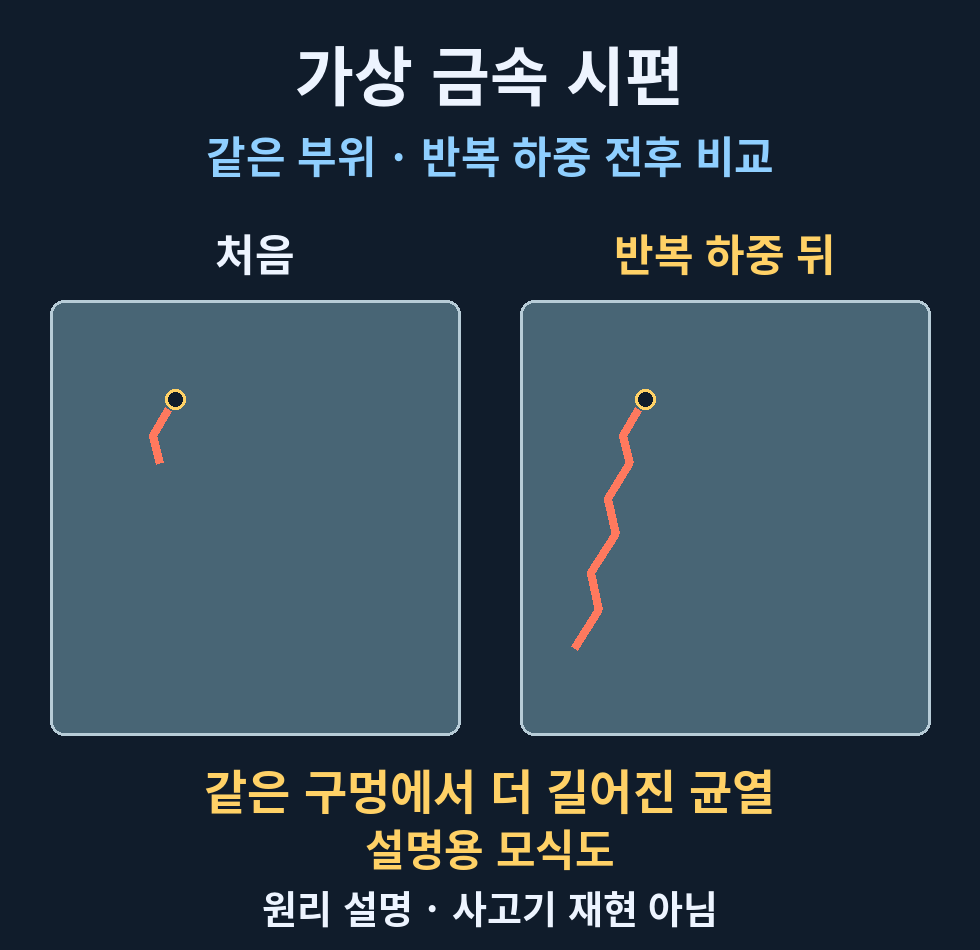
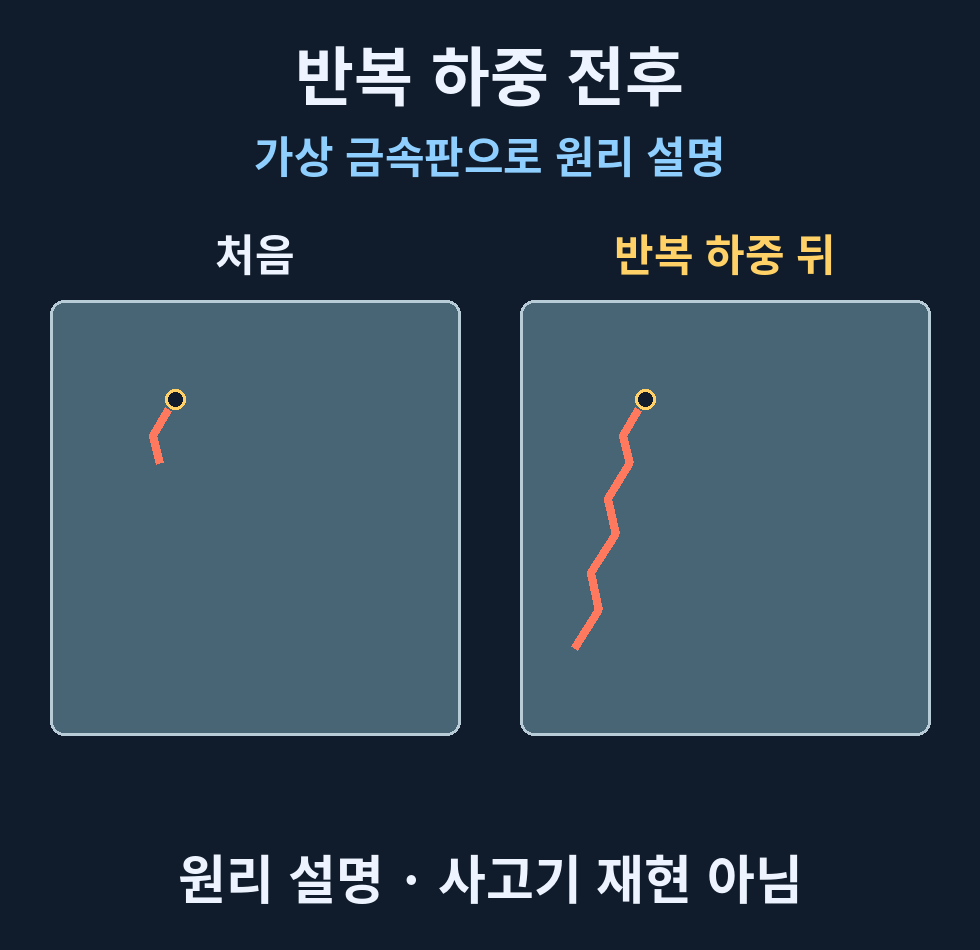
Clarify fatigue specimen transition and enlarge its qualification

Changed region(s): [[0.1837, 0.7937, 0.8265, 0.9768], [0.2143, 0.0305, 0.7959, 0.1832]]

diff --git a/tools/build_comet_fatigue_cards.py b/tools/build_comet_fatigue_cards.py
@@ -25,8 +25,7 @@ def text(d, x, y, value, size=52, color=WHITE):
     d.text((x, y), value, font=font, fill=color, anchor="mm")
 
 def footer(d):
-    text(d, 490, 847, "설명용 모식도", 43, GOLD)
-    text(d, 490, 906, "원리 설명 · 사고기 재현 아님", 38, WHITE)
+    text(d, 490, 876, "원리 설명 · 사고기 재현 아님", 52, WHITE)
 
 def specimen(d, stage, box=(140, 240, 840, 745)):
     x0,y0,x1,y1 = box
@@ -42,36 +41,30 @@ def specimen(d, stage, box=(140, 240, 840, 745)):
     if stage>=1:pts += [(149,232),(163,272),(121,317),(134,360),(93,405)]
     if stage>=2:pts += [(110,447),(77,505)]
     d.line([p(*a) for a in pts],fill=RED,width=max(3,int(15*sx)),joint="curve")
-    if stage>=2:
-        # Generic loss of continuity only; no physical stress or exact fracture prediction.
-        d.line([p(77,505),p(110,447),p(93,405)],fill=BG,width=max(4,int(22*sx)))
     return p
 
 def build(root):
     root=Path(root);root.mkdir(parents=True,exist_ok=True)
-    im,d=base("가상 금속 시편", "작은 균열에 반복 하중")
+    im,d=base("구멍 주변의 작은 균열", "가상 금속판으로 원리 설명")
     specimen(d,0)
     # Long opposing arrows show loading rather than imply air pressure through the opening.
     for x,dx in [(110,-55),(870,55)]:
         d.line((x,490,x+dx,490),fill=BLUE,width=8)
         d.polygon([(x+dx,490),(x+dx-(15 if dx>0 else -15),479),(x+dx-(15 if dx>0 else -15),501)],fill=BLUE)
-    text(d,490,788,"같은 부위에 반복 하중",52,GOLD)
     footer(d);im.save(root/"crack-small.png")
 
-    im,d=base("가상 금속 시편", "같은 부위 · 반복 하중 전후 비교")
+    im,d=base("반복 하중 전후", "가상 금속판으로 원리 설명")
     for box,stage,label,x in [
         ((50,300,460,735),0,"처음",255),
         ((520,300,930,735),1,"반복 하중 뒤",725)]:
         specimen(d,stage,box)
         text(d,x,252,label,43,GOLD if stage else WHITE)
-    text(d,490,788,"같은 구멍에서 더 길어진 균열",47,GOLD)
     footer(d);im.save(root/"crack-grown.png")
 
-    im,d=base("가상 금속 시편", "")
+    im,d=base("균열이 더 길어지면", "가상 금속판으로 원리 설명")
     specimen(d,2)
-    text(d,490,167,"반복 압력 → 균열 성장 → 파손",49,GOLD)
-    text(d,490,810,"설명용 모식도",48,GOLD)
-    text(d,490,889,"원리 설명 · 사고기 재현 아님",43,WHITE)
+    text(d,490,786,"반복 압력 → 균열 성장 → 파손",49,GOLD)
+    footer(d)
     im.save(root/"summary.png")
 
 if __name__=="__main__":
